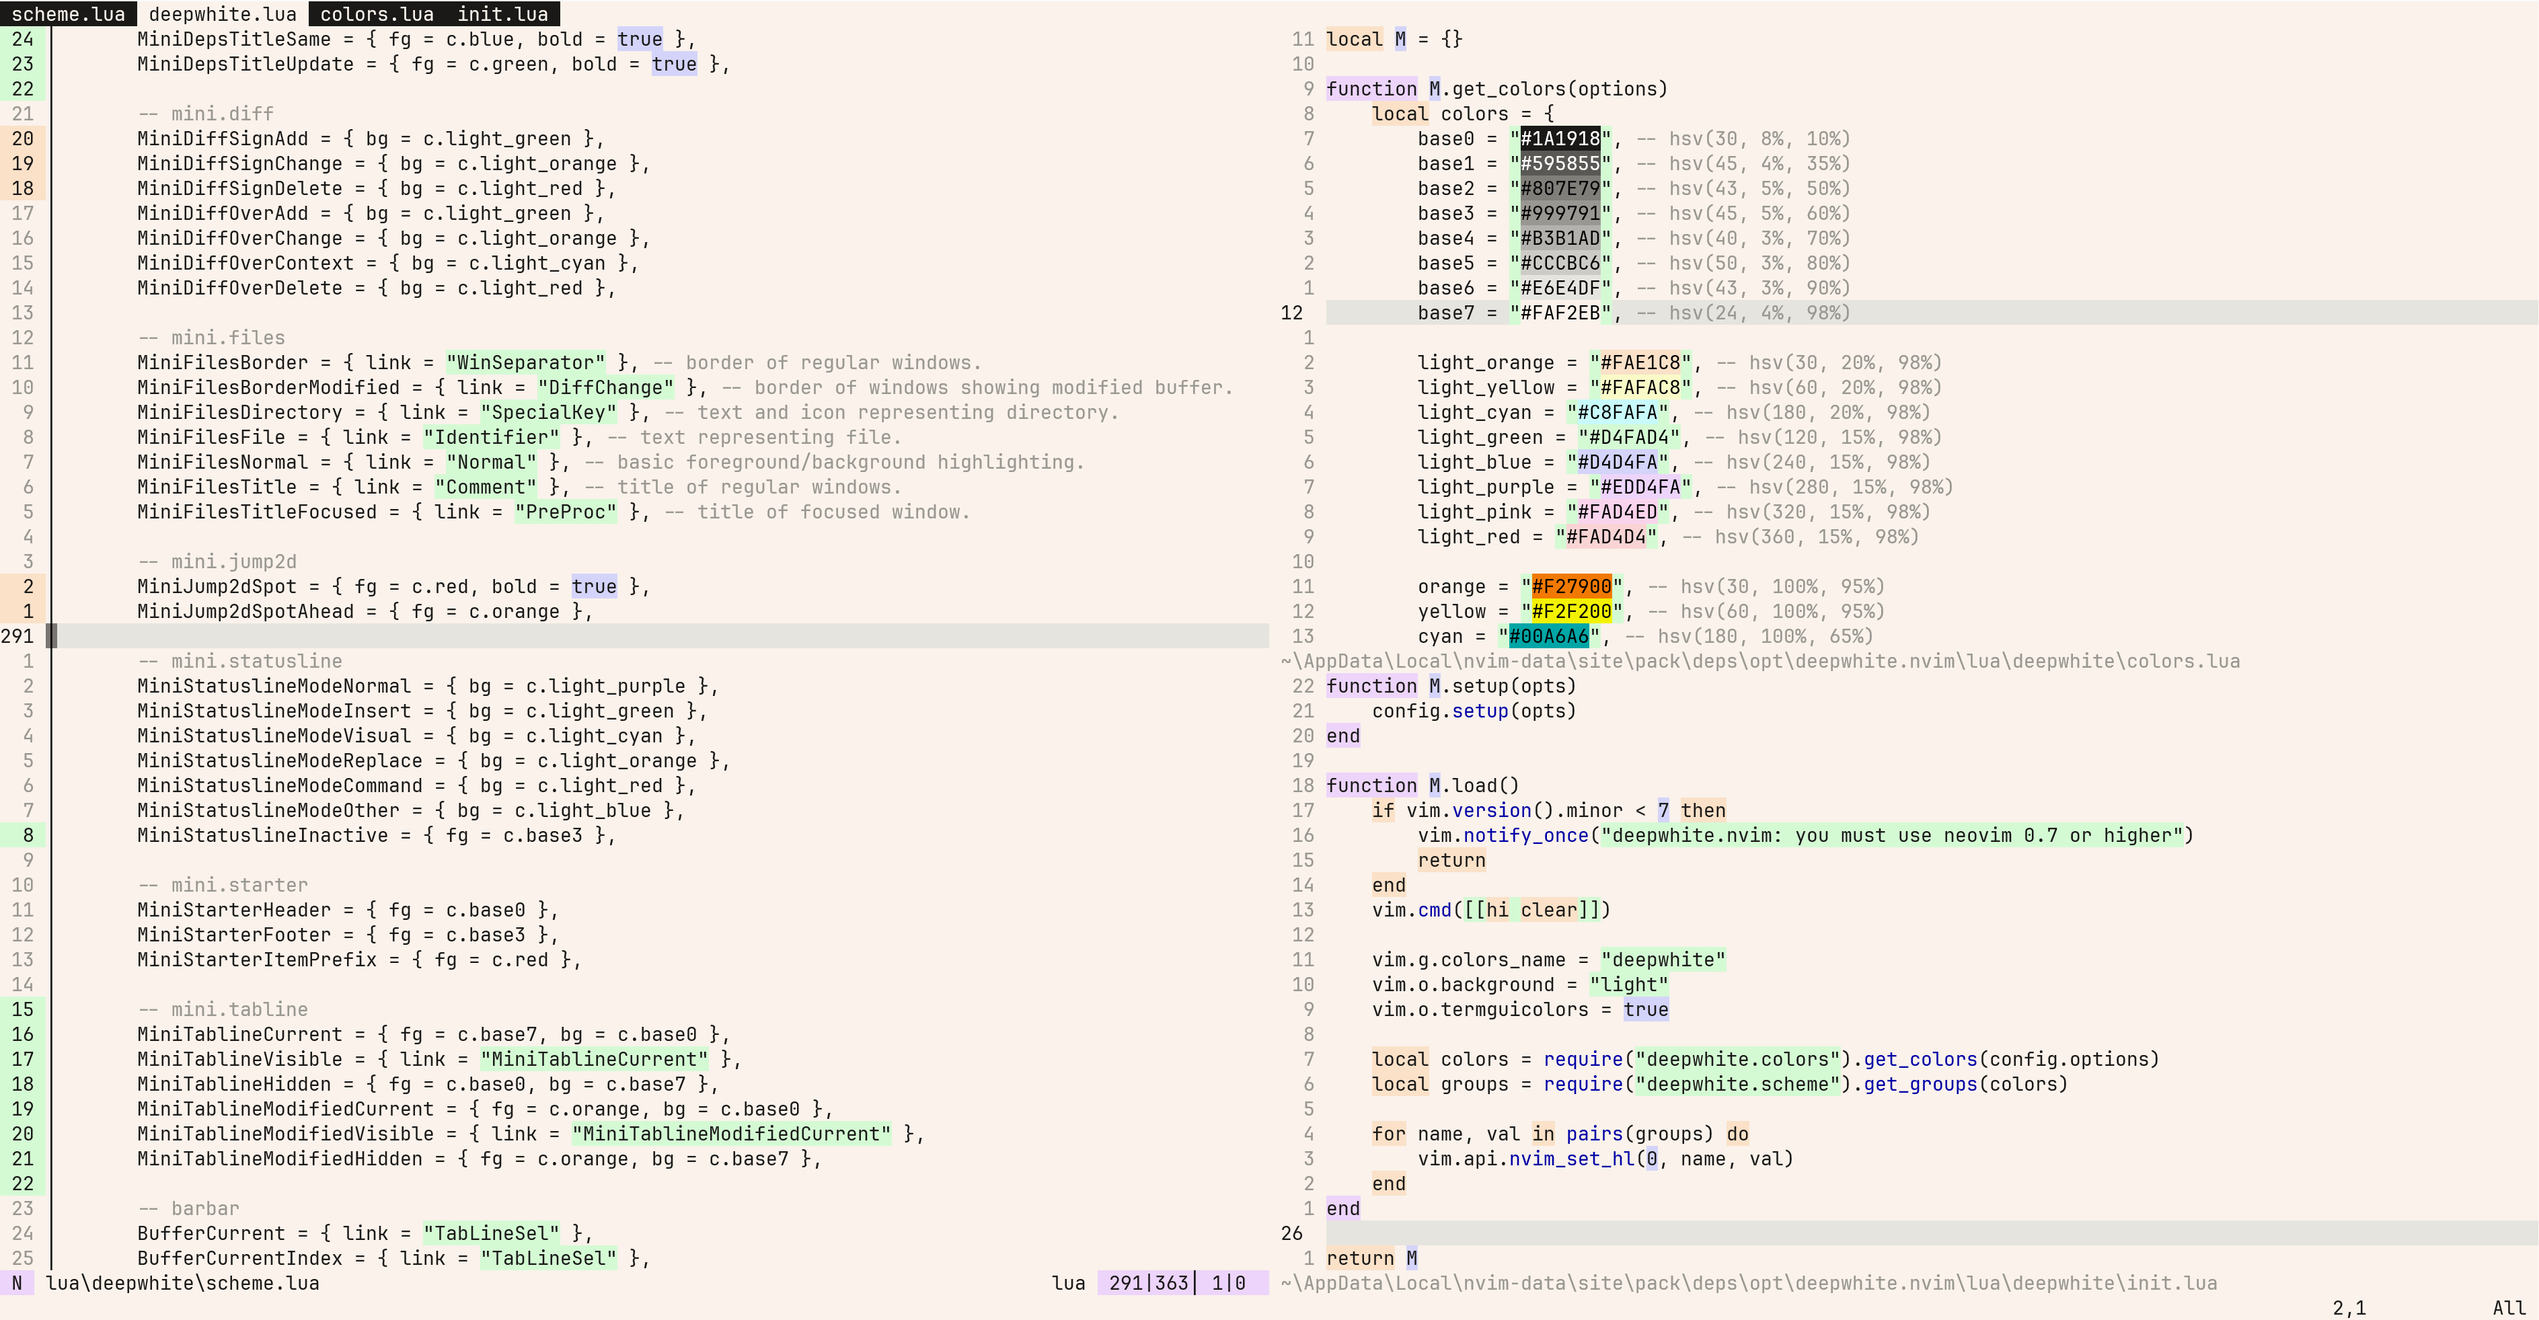
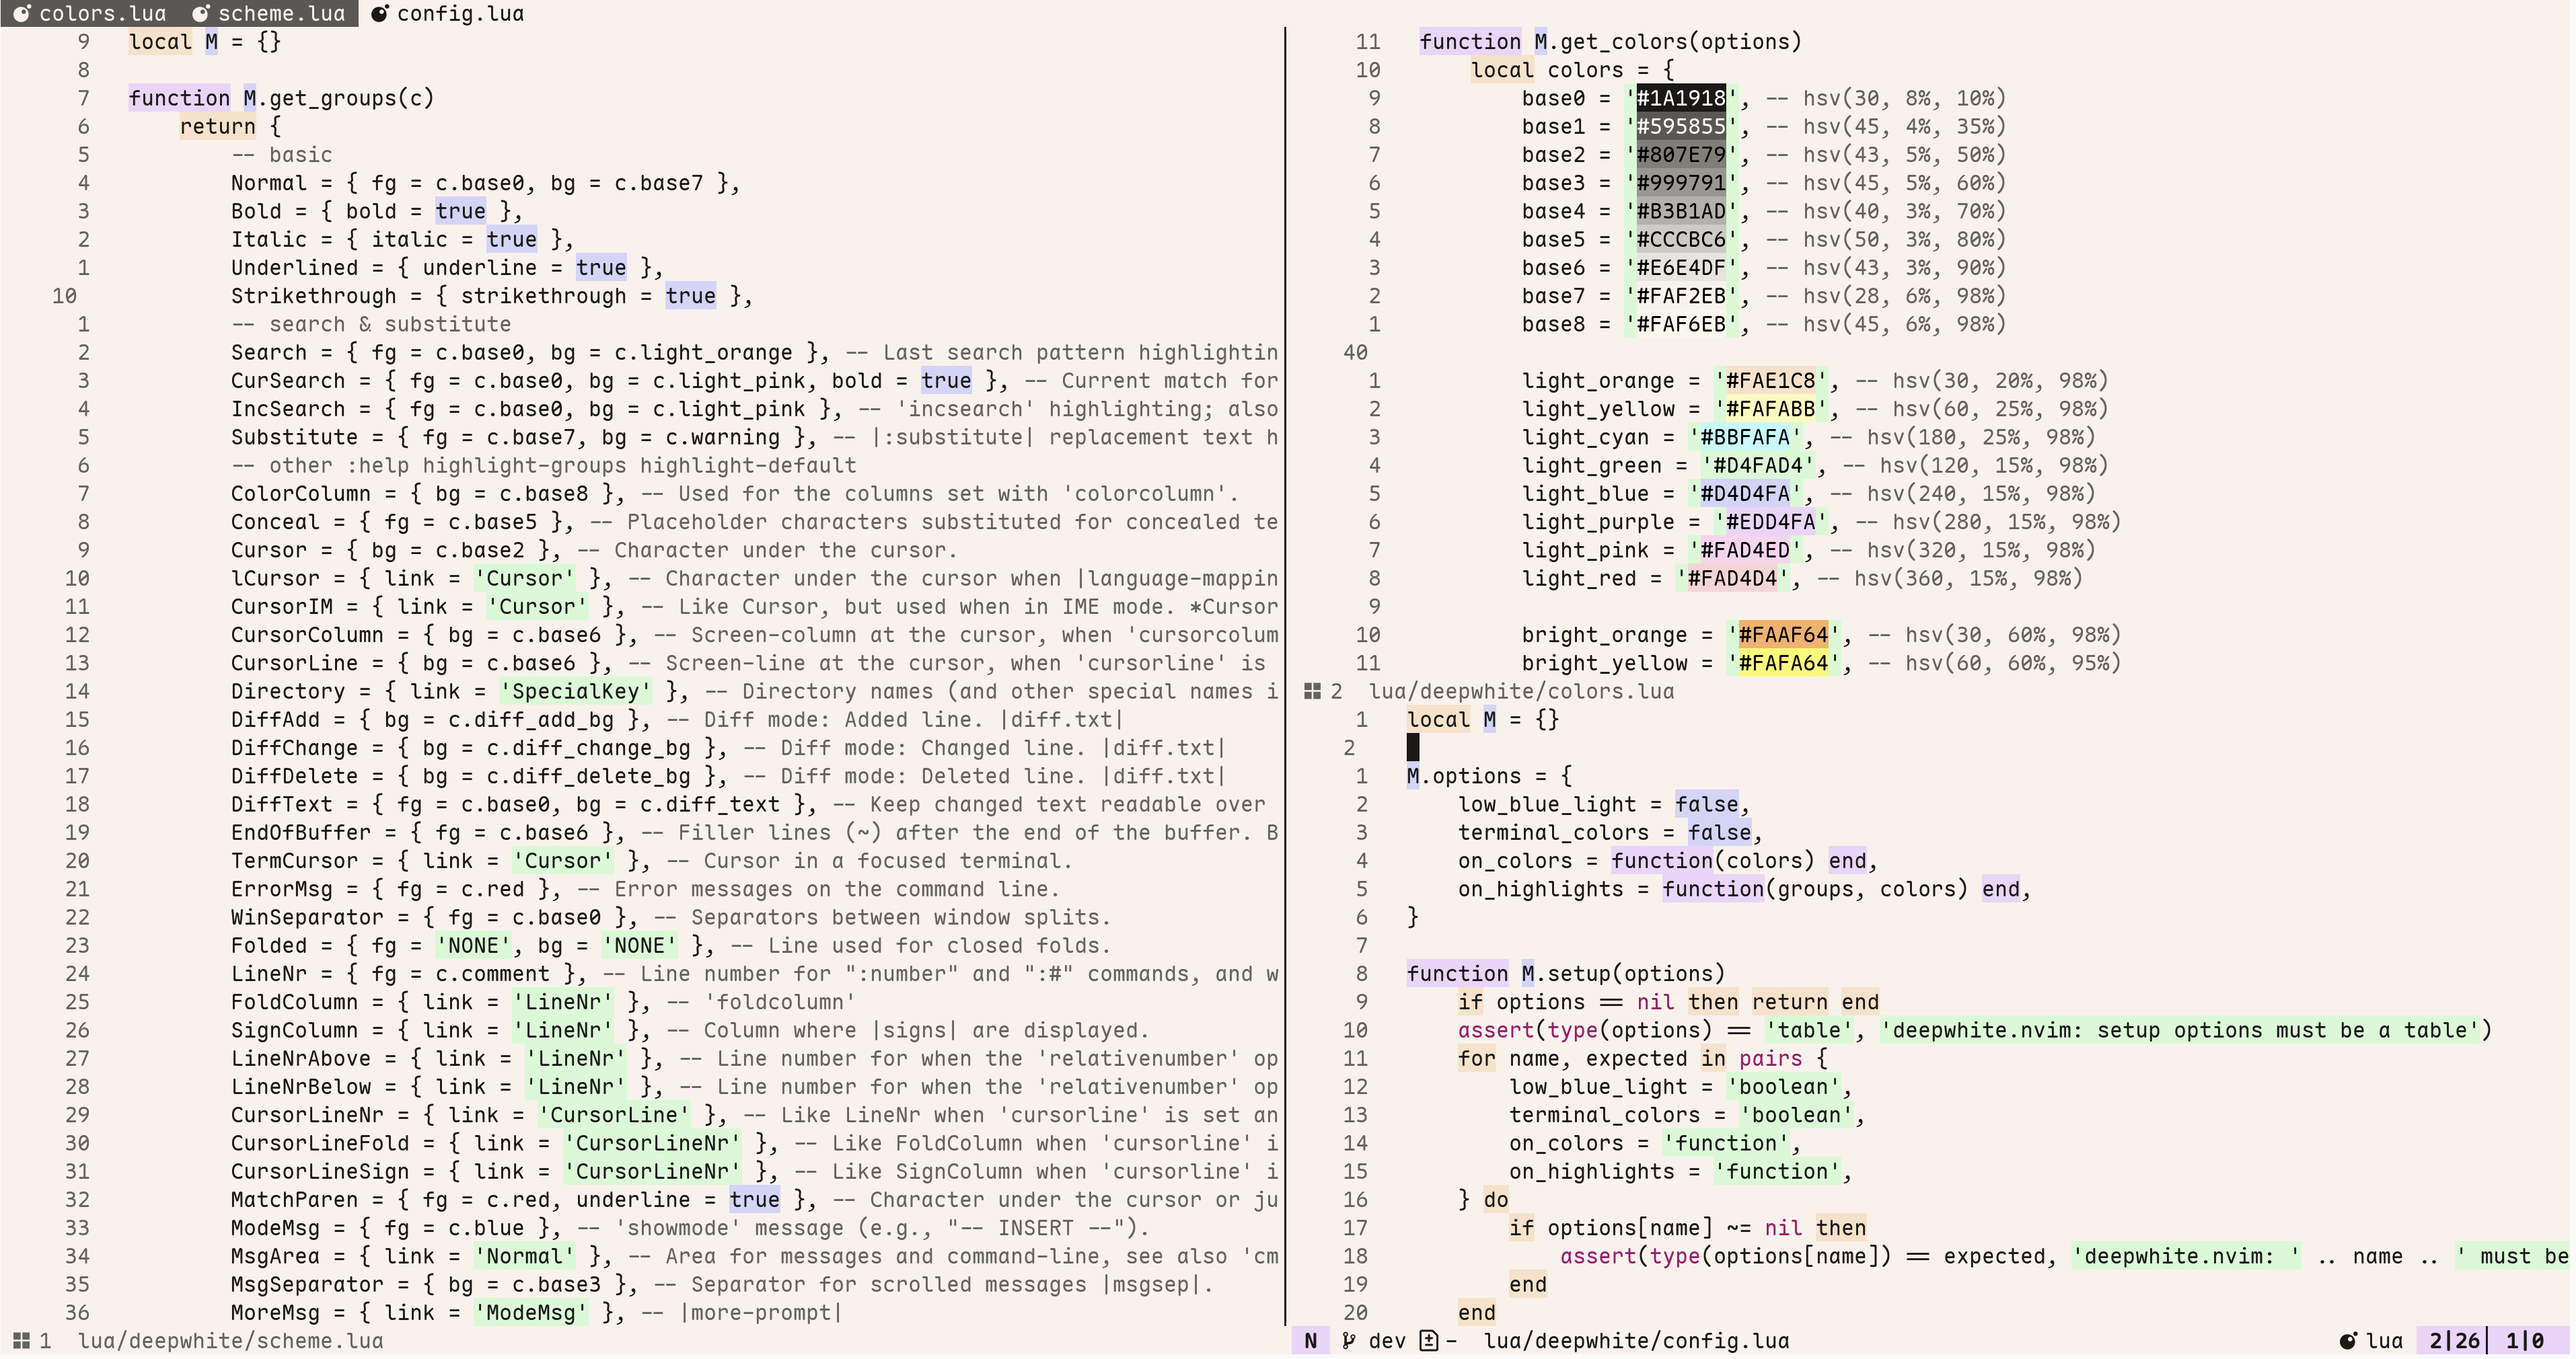
docs: refresh the theme preview for the release
Use the updated main screenshot and remove the stale lualine and barbar screenshots and setup examples from the README.

diff --git a/README.md b/README.md
@@ -2,7 +2,7 @@
   <h2 align="center">DeepWhite</h2>
 </p>
 
-![screenshot](screenshot/screenshot1.png)
+![DeepWhite theme in Neovim](screenshot/screenshot1.png)
 
 ## About
 
@@ -490,35 +490,6 @@ the upstream solid/dotted sign distinction; no extra multicursor color scheme is
 which-key's modern preset and mini.cmdline's range-preview window also use their existing/default links.
 Their checked text, titles, borders and line numbers need no additional plugin-specific overrides.
 Experimental Neovim UI2 message windows are not included in these plugin UI checks.
-
-### Statusline and tabline
-
-```lua
-require('lualine').setup({
-    options = { theme = 'deepwhite' },
-})
-require('barbar').setup({
-    icons = { filetype = { custom_colors = true } },
-})
-```
-
-The lualine theme no longer changes `fillchars`. If you want the previous horizontal-line decoration,
-opt in yourself:
-
-```lua
-vim.opt_global.fillchars:append { stl = '─', stlnc = '─' }
-vim.opt_local.fillchars:append { stl = '─', stlnc = '─' }
-```
-
-The screenshots illustrate the layout; they predate the readable-foreground adjustments above.
-
-- lualine theme
-
-![screenshot](screenshot/lualine.png)
-
-- barbar theme
-
-![screenshot](screenshot/barbar.png)
 
 </details>
 
